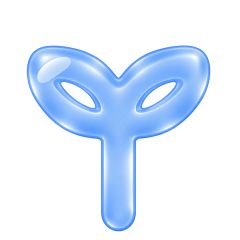
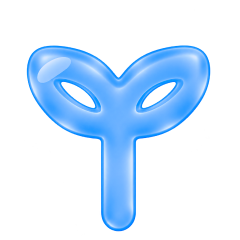
Refresh the 12 category (domain) images
New artwork for every Personalization domain tile; bumped the DomainCarousel
cache-bust to v=3 so the CDN and browsers pick them up.

Changed region(s): [[0.0875, 0.175, 0.875, 0.9625]]

diff --git a/src/components/organisms/DomainCarousel.tsx b/src/components/organisms/DomainCarousel.tsx
@@ -35,7 +35,7 @@ export function DomainCarousel({ domains, value, onChange }: DomainCarouselProps
           >
             <span className={styles.shape}>
               <Image
-                src={`${asset(`/images/domains/${d.id}.png`)}?v=2`}
+                src={`${asset(`/images/domains/${d.id}.png`)}?v=3`}
                 alt=""
                 width={88}
                 height={88}
